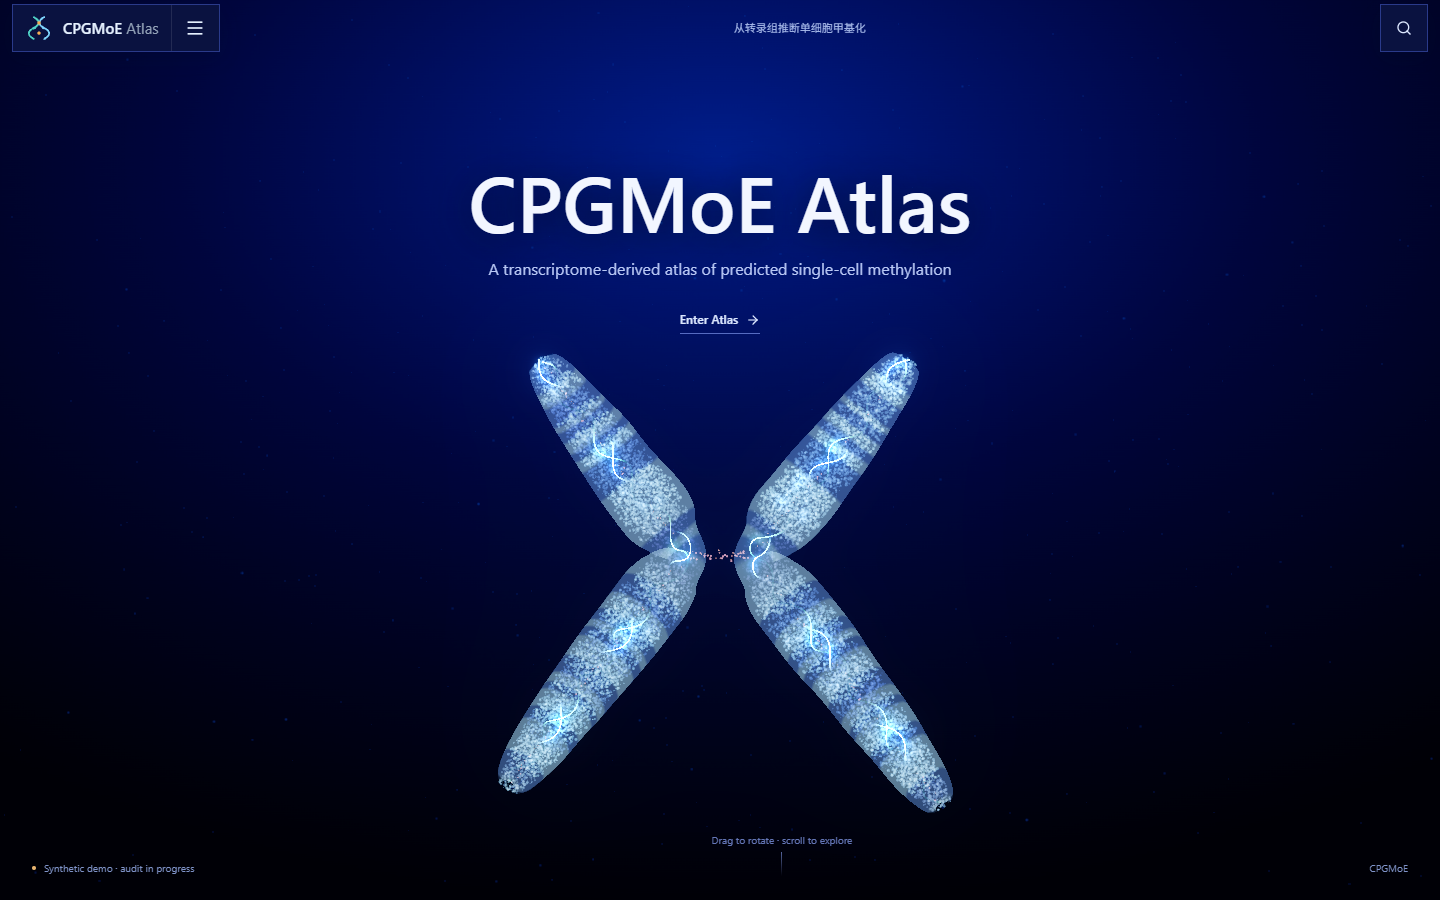
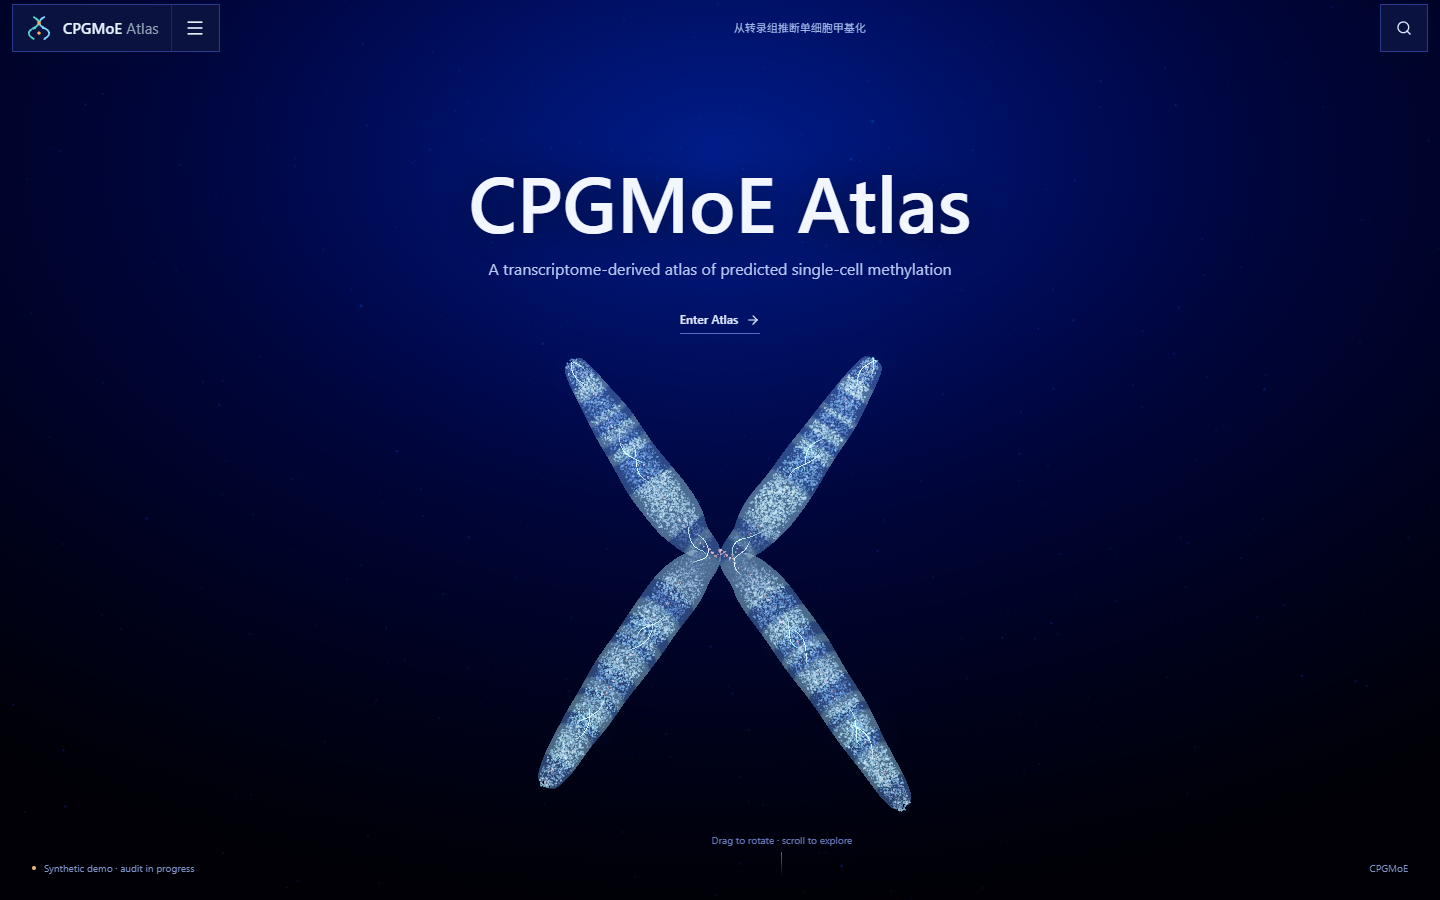
Slim the chromatid geometry so the chromosome reads as an X, not a worm
- Cut arm thickness to roughly one fifth of arm length and tighten the
  centromere gap so the two sister chromatids touch only at the primary
  constriction
- Narrow the arm splay, straighten the arms, soften the pointed tips
- Finer, lower contrast banding; lighter membrane rim and internal fibre

Changed region(s): [[0.3438, 0.3733, 0.6875, 0.9022]]

diff --git a/src/components/home/cinematic-canvas.tsx b/src/components/home/cinematic-canvas.tsx
@@ -196,21 +196,21 @@ function chromatidPath(side: number): THREE.Vector3[] {
   ];
   return samples.map((u) => {
     const d = u - CENTROMERE_T;
-    const spread = 0.34 + 3.54 * Math.pow(Math.abs(d), 1.06);
-    const bow = Math.sin(Math.abs(d) * Math.PI * 1.7) * 0.06;
+    const spread = 0.14 + 3.0 * Math.pow(Math.abs(d), 0.95);
+    const bow = Math.sin(Math.abs(d) * Math.PI * 1.7) * 0.03;
     return new THREE.Vector3(
       side * (spread + bow),
       -d * 4.6,
-      side * (0.1 + 0.62 * Math.abs(d)) + Math.sin(u * Math.PI * 2) * 0.05,
+      side * (0.08 + 0.62 * Math.abs(d)) + Math.sin(u * Math.PI * 2) * 0.04,
     );
   });
 }
 
 function chromatidRadius(t: number, thickness: number): number {
-  const taper = Math.pow(Math.sin(Math.PI * t), 0.32);
+  const taper = Math.pow(Math.sin(Math.PI * t), 0.36);
   const waist =
-    1 - 0.5 * Math.exp(-Math.pow((t - CENTROMERE_T) / 0.055, 2));
-  return (0.055 + 0.295 * taper) * waist * thickness;
+    1 - 0.45 * Math.exp(-Math.pow((t - CENTROMERE_T) / 0.06, 2));
+  return (0.035 + 0.205 * taper) * waist * thickness;
 }
 
 // Deterministic variable-width band table, shared by both sister chromatids so
@@ -224,7 +224,7 @@ const BAND_TABLE = (() => {
     return seed / 233280;
   };
   while (cursor < 1) {
-    table.push({ start: cursor, level: next() > 0.5 ? 1 : 0.35 });
+    table.push({ start: cursor, level: next() > 0.5 ? 1 : 0.42 });
     cursor += 0.006 + next() * 0.02;
   }
   return table;
@@ -271,10 +271,10 @@ function buildChromatidCloud(
     attempts += 1;
     const t = Math.random();
     const band = bandLevel(t);
-    if (band < 0.6 && Math.random() < 0.3) continue;
+    if (band < 0.6 && Math.random() < 0.2) continue;
     const localRadius = chromatidRadius(t, thickness);
     const waist = Math.exp(-Math.pow((t - CENTROMERE_T) / 0.075, 2));
-    const volumeKeep = Math.max(0.35, localRadius / (0.33 * thickness));
+    const volumeKeep = Math.max(0.35, localRadius / (0.24 * thickness));
     if (Math.random() > volumeKeep * (1 - 0.62 * waist)) continue;
     curve.getPointAt(t, point);
     const frameIndex = Math.min(179, Math.floor(t * 180));
@@ -355,7 +355,7 @@ function buildChromatidCloud(
         }
         vec4 mvPosition = modelViewMatrix * vec4(pos, 1.0);
         gl_Position = projectionMatrix * mvPosition;
-         gl_PointSize = (2.2 * aRandom + 0.4) * (15.0 / -mvPosition.z);
+         gl_PointSize = (2.2 * aRandom + 0.4) * (11.0 / -mvPosition.z);
         float tint = 0.5 + 0.5 * snoise(position * 0.6 + uTime * 0.08);
          float shade = clamp(0.45 * tint + 0.55 * aBand, 0.0, 1.0);
          vColor = mix(uDeep, uBand, shade);
@@ -588,7 +588,7 @@ function makeMembrane(
         vec3 dark = vec3(0.11, 0.20, 0.66);
         vec3 light = vec3(0.45, 0.75, 1.0);
         vec3 bandColor = mix(dark, light, vBand);
-        gl_FragColor = vec4(bandColor, rim * 0.16 + 0.02 + vBand * 0.02);
+        gl_FragColor = vec4(bandColor, rim * 0.12 + 0.015 + vBand * 0.02);
       }
     `,
     transparent: true,
@@ -612,8 +612,8 @@ function makeHelixCurve(
     const angle = t * Math.PI * 18 + phase;
     const offset = new THREE.Vector3()
       .copy(frames.normals[i])
-      .multiplyScalar(Math.cos(angle) * 0.085)
-      .addScaledVector(frames.binormals[i], Math.sin(angle) * 0.085);
+      .multiplyScalar(Math.cos(angle) * 0.06)
+      .addScaledVector(frames.binormals[i], Math.sin(angle) * 0.06);
     points.push(point.add(offset));
   }
   return new THREE.CatmullRomCurve3(points, false, "catmullrom", 0.5);
@@ -633,7 +633,7 @@ function makeFibers(
     const geometry = new THREE.TubeGeometry(
       makeHelixCurve(curve, phase, segments),
       segments,
-          0.009,
+          0.005,
       5,
       false,
     );
@@ -661,7 +661,7 @@ function makeFibers(
           float brightness = smoothstep(0.2, 0.9, pulse);
           float head = smoothstep(0.92, 1.0, sin(flow - 0.2));
           vec3 color = mix(uColor2, uColor1, brightness + head);
-          gl_FragColor = vec4(color * (0.9 + brightness * 1.4), 1.0);
+          gl_FragColor = vec4(color * (0.5 + brightness * 0.8), 1.0);
         }
       `,
       transparent: true,
@@ -727,7 +727,7 @@ export function CinematicCanvas() {
     const leftFibers = makeFibers(curves.left, mobile);
     const rightFibers = makeFibers(curves.right, mobile);
     const core = buildCore(curves, mobile ? 110 : 200);
-    const bridge = buildBridge(curves, mobile ? 28 : 46);
+    const bridge = buildBridge(curves, mobile ? 18 : 30);
     chromosome.add(
       leftCloud,
       rightCloud,
